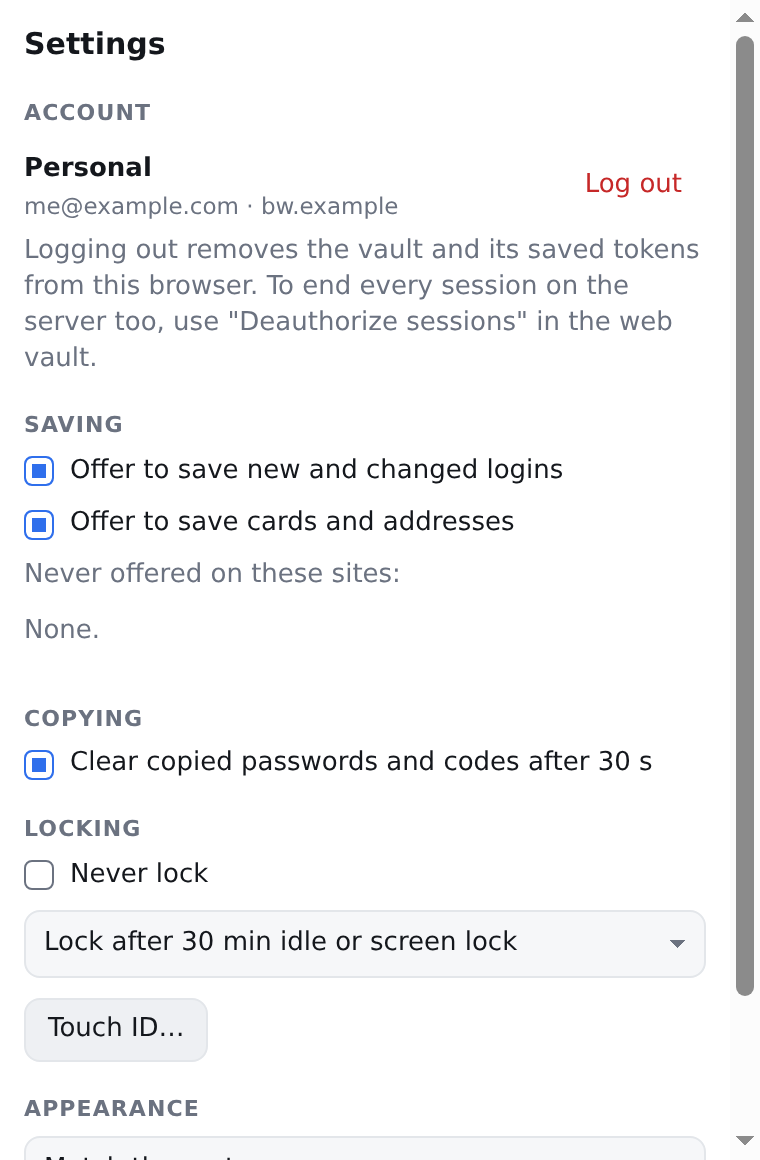
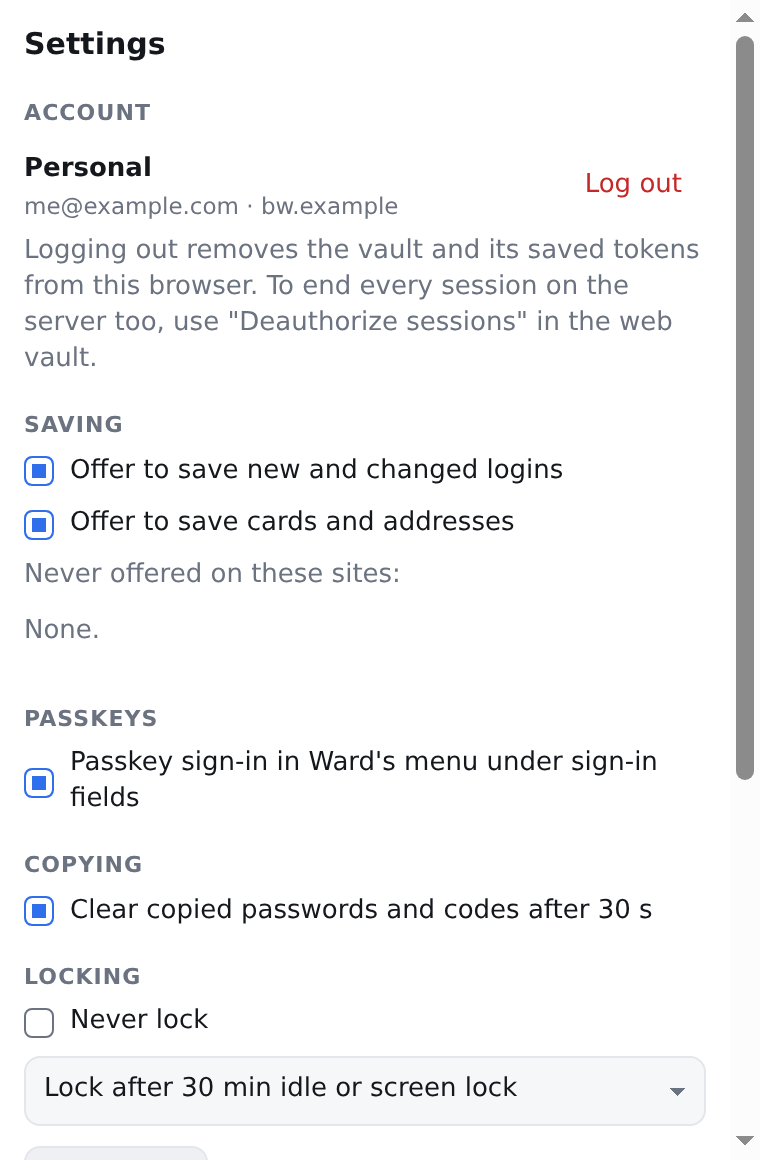
Match detection per URL and a default in Settings (0.7.1)
The login form shows one row per URL with its match detection (base domain,
host, starts with, exact, regex, never, or the default). Settings > Matching
sets the default for URLs without their own, e.g. Host so a login for
a.example.com is no longer offered on b.example.com. Stored per browser, as
in Bitwarden; invalid regular expressions are refused on save.

Changed region(s): [[0.0303, 0.5897, 0.8776, 0.9], [0.0303, 0.931, 0.9079, 1.0], [0.9684, 0.6517, 0.9987, 0.869]]

diff --git a/popup.js b/popup.js
@@ -137,8 +137,9 @@ async function run(btn, err, fn) {
 async function start() {
   let s;
   [st, s, [tab]] = await Promise.all([
-    local.get(['accounts', 'used', 'deviceId', 'neverLock', 'autoLock', 'touchUnlock', 'passwordAt', 'offerLogins', 'offerForms', 'passkeyMenu', 'neverSave', 'clearClipboard', 'generator', 'server', 'email', 'kdf', 'protectedKey', 'tokens', 'persistKey']),
+    local.get(['accounts', 'used', 'deviceId', 'neverLock', 'autoLock', 'touchUnlock', 'passwordAt', 'offerLogins', 'offerForms', 'passkeyMenu', 'defaultMatch', 'neverSave', 'clearClipboard', 'generator', 'server', 'email', 'kdf', 'protectedKey', 'tokens', 'persistKey']),
     session.get(null), chrome.tabs.query({ active: true, currentWindow: true })]);
+  bw.setDefaultMatch(st.defaultMatch);
   if (mode === 'pk') {
     if (!(pk = s[`pk:${modeKey}`])) return window.close();
     if (!['create', 'get'].includes(pk.kind) || typeof pk.id !== 'string' || !Number.isInteger(pk.tabId)
@@ -753,6 +754,7 @@ const ICONS = {
   edit: 'M4 20h4L19 9l-4-4L4 16zM14 6l4 4',
   check: 'M5 12l5 5 9-10',
   plus: 'M12 5v14M5 12h14',
+  x: 'M6 6l12 12M18 6 6 18',
   sync: 'M20 11a8 8 0 0 0-14-5l-2 2M4 4v4h4M4 13a8 8 0 0 0 14 5l2-2M20 20v-4h-4',
   lock: 'M6 11h12v9H6zM8 11V8a4 4 0 0 1 8 0v3',
   gear: 'M12 9a3 3 0 1 0 0 6a3 3 0 0 0 0-6M12 2v3M12 19v3M2 12h3M19 12h3M4.9 4.9l2.1 2.1M17 17l2.1 2.1M4.9 19.1 7 17M17 7l2.1-2.1',
@@ -1029,6 +1031,12 @@ function settingsView() {
     onchange: () => local.set({ autoLock: (st.autoLock = Number(autoLock.value)) }),
   }, AUTO_LOCK_CHOICES.map((m) => h('option', { value: String(m), selected: m === autoLockMinutes(st.autoLock) }, lockLabel(m))));
   neverLock.addEventListener('change', () => (autoLock.disabled = neverLock.checked));
+  // Matching: the match detection for URLs without their own (as Bitwarden's "Default URI match detection").
+  const matchLabel = { 0: 'Base domain: any subdomain of the site', 1: 'Host: the exact subdomain and port', 2: 'Starts with the saved URL', 3: 'Exact URL' };
+  const defaultMatch = h('select', {
+    title: 'Default match detection, for URLs that have none of their own',
+    onchange: () => local.set({ defaultMatch: (st.defaultMatch = bw.setDefaultMatch(Number(defaultMatch.value))) }),
+  }, bw.DEFAULT_MATCHES.map((m) => h('option', { value: String(m), selected: m === bw.getDefaultMatch() }, matchLabel[m])));
   // Appearance: follow the system unless chosen here (theme.js applies it before first paint).
   const root = document.documentElement;
   let themeNow = 'system';
@@ -1064,8 +1072,35 @@ function settingsView() {
     h('label', { className: 'check', title: 'Keeps the vault keys on this computer so the vaults stay open after a browser restart. Anyone with access to this browser profile can then open them.' }, neverLock, 'Never lock'),
     autoLock,
     h('button', { title: 'Touch ID unlock (experimental)', onclick: touchSettingsView }, 'Touch ID…'),
+    h('h2', {}, 'Matching'), defaultMatch,
+    h('p', { className: 'muted' }, 'For URLs without their own match detection. Set one login\'s URLs in its edit form.'),
     h('h2', {}, 'Appearance'), theme,
     h('div', { className: 'inline' }, h('button', { className: 'primary', onclick: vaultView }, 'Done')));
+}
+
+// The edit form's URLs: one row per URL with its match detection (null: the default from Settings > Matching).
+function uriEditor(list) {
+  const rows = h('div', { className: 'urls' });
+  const add = (u = '', m = null) => {
+    const input = h('input', { value: u, placeholder: 'example.com', ariaLabel: 'URL' });
+    const match = h('select', { title: 'Match detection: when this URL counts as the page you are on', ariaLabel: 'Match detection' },
+      [null, ...bw.MATCH_TYPES.keys()].map((v) => h('option', { value: v ?? '', selected: v === m },
+        v === null ? `Default (${bw.MATCH_TYPES[bw.getDefaultMatch()]})` : bw.MATCH_TYPES[v])));
+    const row = h('div', { className: 'inline' }, input, match,
+      h('button', { type: 'button', className: 'quiet', title: 'Remove this URL', onclick: () => row.remove() }, icon('x')));
+    row.read = () => [input.value.trim(), match.value === '' ? null : Number(match.value)];
+    rows.append(row);
+    return input;
+  };
+  for (const [u, m] of list) add(u, m);
+  if (!list.length) add();
+  const el = h('div', { className: 'field' }, h('span', {}, 'URLs'), rows,
+    h('button', { type: 'button', className: 'link', onclick: () => add().focus() }, 'Add URL'));
+  const read = () => {
+    const got = [...rows.children].map((r) => r.read()).filter(([u]) => u);
+    return { uris: got.map(([u]) => u), match: got.map(([, m]) => m) };
+  };
+  return { el, read };
 }
 
 // The edit form's Gen: a password or passphrase with the generator's saved options.
@@ -1145,7 +1180,7 @@ function editView(item) {
   const hidden = item?.viewPassword === false; // hidden by an organization policy: left empty, the saved one is kept
   const pass = h('input', { type: 'password', value: hidden ? '' : item?.password || '', placeholder: hidden ? 'Hidden by your organization' : null });
   const totp = h('input', { value: item?.totp || '', placeholder: 'Secret or otpauth:// URI' });
-  const uris = h('textarea', { rows: 2, value: (item ? item.uris : host ? [new URL(tab.url).origin] : []).join('\n'), placeholder: 'One URL per line' });
+  const uris = uriEditor(item ? item.uris.map((u, n) => [u, item.m?.[n] ?? null]) : host ? [[new URL(tab.url).origin, null]] : []);
   const notes = h('textarea', { rows: 3, value: item?.notes || '' });
   const target = !item && unlocked().length > 1 && h('select', {}, unlocked().map((a) => h('option', { value: a.id }, a.label)));
   const readOnly = item?.raw.edit === false;
@@ -1165,7 +1200,7 @@ function editView(item) {
         const a = acct(item?.a || (target ? target.value : unlocked()[0].id));
         if (!await saveItem(a, item, {
           name: name.value.trim(), username: user.value, password: hidden && !pass.value ? item.password : pass.value, totp: totp.value.trim(), notes: notes.value,
-          uris: uris.value.split('\n').map((u) => u.trim()).filter(Boolean),
+          ...uris.read(),
         })) throw new Error('Vault locked or removed before the save finished');
         vaultView();
       });
@@ -1182,7 +1217,7 @@ function editView(item) {
       h('button', { type: 'button', className: 'quiet', title: 'Generator options', onclick: () => generatorView({
         type: gen.normalize(st.generator).type === 'passphrase' ? 'passphrase' : 'password', back: show,
         use: (v) => ((pass.value = v), (pass.type = 'text'), show()) }) }, icon('dice')))),
-    field('TOTP', totp), field('URLs', uris), field('Notes', notes),
+    field('TOTP', totp), uris.el, field('Notes', notes),
     h('div', { className: 'inline' }, btn, h('button', { type: 'button', onclick: vaultView }, 'Cancel'), item && !readOnly && del), err);
   // show() also returns here from the generator with the form as it was
   const heading = title(item ? 'Edit login' : 'Add login'), tag = item && accounts.length > 1 && h('p', { className: 'muted' }, vaultTag(item.a));

diff --git a/bw.js b/bw.js
@@ -320,12 +320,15 @@ export async function saveCipher(s, userKey, item, v) {
   c.name = await e(v.name);
   c.notes = await e(v.notes);
   Object.assign(c.login, { username: await e(v.username), password: await e(v.password), totp: await e(v.totp) });
+  if (v.match != null && (!Array.isArray(v.match) || v.match.length !== v.uris.length || !v.match.every(validMatch)))
+    throw new Error('Login match types are invalid');
+  v.uris.forEach((u, n) => { if (v.match?.[n] === 4) try { new RegExp(u); } catch { throw new Error(`Not a valid regular expression: ${u}`); } });
   c.login.uris = await Promise.all(v.uris.map(async (u, n) => {
-    const i = item?.uris.indexOf(u) ?? -1; // an edited URL keeps the match type of the one in its place
+    const i = item?.uris.indexOf(u) ?? -1; // without v.match, an edited URL keeps the match type of the one in its place
     return {
       uri: await encrypt(u, key),
       uriChecksum: await encrypt(b64(await sha256(u)), key), // official clients drop a URI whose checksum doesn't match
-      match: item?.raw.login?.uris?.[i >= 0 ? i : n]?.match ?? null,
+      match: v.match ? v.match[n] : item?.raw.login?.uris?.[i >= 0 ? i : n]?.match ?? null,
     };
   }));
   // one passkey per login, as in the official clients: saving one replaces the old
@@ -473,8 +476,15 @@ export function equivalents(groups) {
   return out;
 }
 
-// Per saved URI, its match type as in Bitwarden: null/0 base domain (or an equivalent one), 1 host (with port),
-// 2 starts with, 3 exact, 4 regular expression, 5 never.
+// Per saved URI, its match type as in Bitwarden: 0 base domain (or an equivalent one), 1 host (with port),
+// 2 starts with, 3 exact, 4 regular expression, 5 never; null uses the default (Settings > Matching; base domain
+// unless changed). As in Bitwarden, the default lives in this browser, not in the vault.
+export const MATCH_TYPES = ['Base domain', 'Host', 'Starts with', 'Exact', 'Regular expression', 'Never'];
+export const DEFAULT_MATCHES = [0, 1, 2, 3]; // choices for the default: regex needs a pattern, never would hide everything
+const validMatch = (m) => m === null || (Number.isInteger(m) && m >= 0 && m < MATCH_TYPES.length);
+let defaultMatch = 0;
+export const setDefaultMatch = (m) => (defaultMatch = DEFAULT_MATCHES.includes(m) ? m : 0);
+export const getDefaultMatch = () => defaultMatch;
 // Ward: a plain-http page only matches URIs saved with an explicit http:// scheme, or schemeless URIs for local
 // hosts (IP literals, localhost, .local/.lan/.home.arpa/.internal). Otherwise an on-path attacker could downgrade
 // or inject http://anything.bank.com and have the bank's https login offered and filled there.
@@ -503,7 +513,7 @@ function matchesPage(item, { url, page, site, plainHttp }, equiv) {
   return item.uris.some((u, n) => {
     try {
       if (plainHttp && !httpAllowed(u)) return false;
-      switch (item.m?.[n] ?? 0) {
+      switch (item.m?.[n] ?? defaultMatch) {
         case 0: { const d = known ? known[n] : domainOf(u); return !!d && (d === site || !!equiv?.get(site)?.has(d)); }
         case 1: return toURL(u).host === page.host;
         case 2: { const s = toURL(u); return s.origin === page.origin && (url.startsWith(u) || page.href.startsWith(s.href)); } // Ward: same origin first

diff --git a/background.js b/background.js
@@ -22,7 +22,7 @@ async function vault() {
 }
 async function build() {
   const version = stateVersion;
-  const stored = await local.get(['accounts', 'used', 'neverSave', 'offerLogins', 'offerForms', 'passkeyMenu']);
+  const stored = await local.get(['accounts', 'used', 'neverSave', 'offerLogins', 'offerForms', 'passkeyMenu', 'defaultMatch']);
   const seen = new Set();
   const accounts = Array.isArray(stored.accounts) ? stored.accounts.filter((a) => accountId(a?.id) && !seen.has(a.id) && seen.add(a.id)) : [];
   const used = stored.used && typeof stored.used === 'object' ? stored.used : {};
@@ -96,6 +96,7 @@ async function build() {
   // Ward settings: both save offers are on unless turned off in the popup's Settings
   const offerLogins = stored.offerLogins !== false, offerForms = stored.offerForms !== false;
   const passkeyMenu = stored.passkeyMenu !== false; // passkey autofill in the menu under sign-in fields
+  bw.setDefaultMatch(stored.defaultMatch); // match type for URLs without their own (Settings > Matching)
   return (state = { accounts, used, neverSave, offerLogins, offerForms, passkeyMenu, items, open, equiv, rank });
 }
 const forSite = (v, url) => bw.forSite(v.items, url, (i) => v.equiv.get(i.a), v.rank, v.used);

diff --git a/popup.css b/popup.css
@@ -11,7 +11,12 @@ main { padding: 12px; }
 h1 { font-size: 15px; font-weight: 650; margin: 0 0 12px; }
 h2 { font-size: 11px; text-transform: uppercase; letter-spacing: .05em; color: var(--muted); font-weight: 600; margin: 16px 0 6px; }
 form { display: grid; gap: 10px; }
-label { display: grid; gap: 4px; color: var(--muted); font-size: 11.5px; }
+label, .field { display: grid; gap: 4px; color: var(--muted); font-size: 11.5px; }
+.urls { display: grid; gap: 6px; } /* a login's URLs: input, match detection, remove */
+.urls .inline + .inline { margin-top: 0; }
+.urls .inline input { flex: 1; min-width: 0; }
+.urls .inline select { max-width: none; flex: none; }
+.field > .link { justify-self: start; }
 input, textarea, select { width: 100%; padding: 7px 9px; border: 1px solid var(--line); border-radius: var(--radius); background: var(--panel); color: var(--fg); font: inherit; appearance: none; }
 input:focus, textarea:focus, select:focus { outline: none; border-color: var(--accent); }
 select { padding-right: 24px; background-image: linear-gradient(45deg, transparent 50%, var(--muted) 50%), linear-gradient(135deg, var(--muted) 50%, transparent 50%);

diff --git a/README.md b/README.md
@@ -89,7 +89,9 @@ Loading from a specific commit means nothing changes until you pull and reload o
   Gen uses them
 - Several vaults in one list (Vaultwarden, bitwarden.com, bitwarden.eu)
 - Offline: unlock and fill from an encrypted local copy; syncs when the popup opens (if older than 5 minutes)
-- Matching follows Bitwarden's per-URL match setting and equivalent domains, with the Public Suffix List
+- Matching follows Bitwarden's per-URL match setting and equivalent domains, with the Public Suffix List. Set a
+  URL's match detection in the login form; Settings > Matching sets the default (Host keeps a login for
+  a.example.com off b.example.com)
 - Cards, identities and secure notes: browse, search, add, edit, copy; **Fill** puts a card or identity into a
   checkout or address form (https pages only). Cards may fill the site's own frames and known payment-provider
   frames (Stripe, Braintree, Adyen, PayPal, Square, Shopify and others); identities the site's own frames only.

diff --git a/docs/design/SYSTEM.md b/docs/design/SYSTEM.md
@@ -46,7 +46,9 @@ colour in a view. The only literal colours are the avatar palette and the vault 
 - Other ways to do the same step (two-step methods): one `p.muted.switch` line, "Or use" followed by `.link` buttons.
 - Generated values: `.genout`, a monospace panel box (`--panel`, `--line`, 10px radius) that selects as a whole. Tab
   rows that switch a view's mode reuse the vault list's chips (`nav.kinds`, `button.on`).
-- Forms: `label` wraps its input (`field()`); checkboxes are `label.check`.
+- Forms: `label` wraps its input (`field()`); checkboxes are `label.check`. A field with several controls (a login's URLs)
+  is a `div.field` (same look as a label): its caption in a `span`, one `.inline` row per entry (input, then a `select`
+  with an `ariaLabel`, then a `.quiet` remove icon), then a `.link` add button ("Add URL").
 - The brand bar `.bar .brand` ("Ward") tops the main list and every extension window.
 
 ## Patterns

diff --git a/docs/TESTING.md b/docs/TESTING.md
@@ -84,6 +84,12 @@ After `git pull`, click the reload arrow on Ward's card in `vivaldi://extensions
     on your server with the browser's prompt; touch the key; the window closes and Ward opens the vault. "Or use"
     switches between the methods the account has. Cancel goes back to the login form.
 
+18. **Match detection (0.7.1)**: save logins for two subdomains of one site (a.example.com, b.example.com). On
+    a.example.com both are offered (base domain). Settings → Matching → Host: only a.example.com's login is offered
+    there. Edit b.example.com's login, set its URL to Base domain, save: it is offered on a.example.com again, and the
+    web vault shows the same match detection. Add URL adds a row, × removes one; an invalid regular expression is
+    refused on Save.
+
 ### Automated two-step checks
 
 - Email: run Vaultwarden with mail going to [Mailpit](https://mailpit.axllent.org/) and pass `MAILPIT`:

diff --git a/ROADMAP.md b/ROADMAP.md
@@ -23,6 +23,8 @@
 - Speed: search ~15x less work per keystroke, in-page menu 3x faster, popup paints ~40% sooner; docs/performance.md (0.6.1)
 - Passkey autofill: Ward answers a site's passkey autofill request from its own menu under the field (passkeys first,
   one click signs in, "Use device or security key" hands it to the browser); honours the site's abort; setting (0.7.0)
+- Match detection: a picker per URL in the login form (base domain, host, starts with, exact, regex, never) and a
+  default in Settings > Matching, e.g. Host so a.example.com's login stays off b.example.com (0.7.1)
 
 ## Next
 1. Touch ID works on macOS (Vivaldi, WebAuthn PRF). Polish: prompt automatically when the popup opens locked, cover
